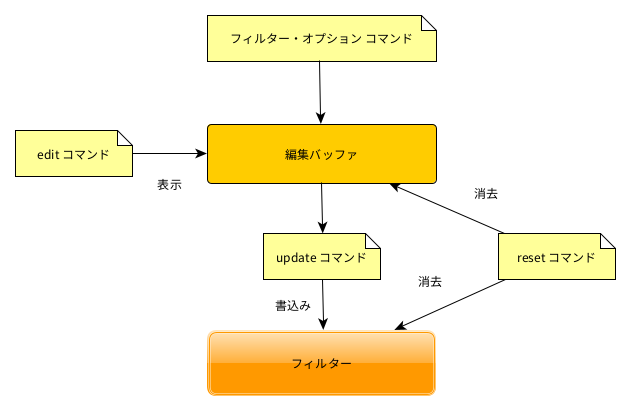
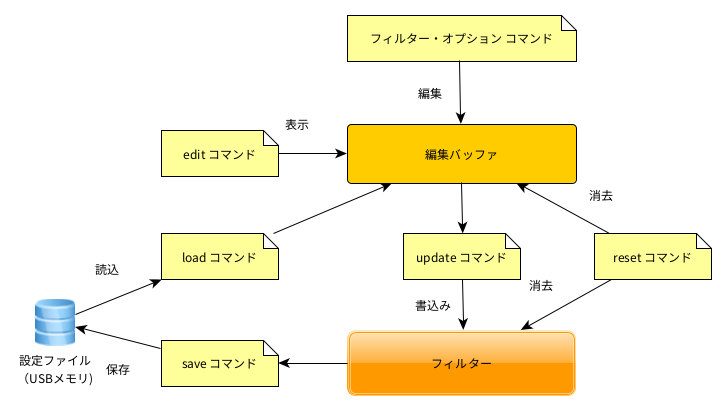
Added descriptions of save and load commands

diff --git a/docs/man/ja/command_list.rst b/docs/man/ja/command_list.rst
@@ -23,16 +23,18 @@
    =================  ==================================  ==============  ============
 
 .. table:: フィルター操作
-   :widths: 10, 60, 10
+   :widths: 10, 60, 12
 
-   ========================  ======================================================================================  ===========
-   コマンド                    機能                                                                                  引数
-   ========================  ======================================================================================  ===========
-   ``0`` / ``1`` / ``a``       設定対象のネットワークデバイス選択 ``0``:eth0 / ``1``:eth1 / ``a``:all(eth0 & eth1)    ---
-   ``edit``                    未反映のフィルター設定表示                                                             ---
-   ``update``                  フィルター設定適用                                                                     ---
-   ``reset``                   フィルター設定解除                                                                     ---
-   ========================  ======================================================================================  ===========
+   ======================  ====================================================================================  ==============
+   コマンド                機能                                                                                   引数
+   ======================  ====================================================================================  ==============
+   ``0`` / ``1`` / ``a``   設定するネットワークデバイスを選択 ``0``:eth0 / ``1``:eth1 / ``a``:all(eth0 & eth1)    ---
+   ``edit``                未反映のフィルター設定表示                                                             ---
+   ``update``              フィルター設定適用                                                                     ---
+   ``reset``               フィルター設定解除                                                                     ---
+   ``save``                現在のフィルター設定をUSBメモリに保存                                                  ファイル名
+   ``load``                フィルター設定ファイルをUSBメモリから読込む                                            ファイル名
+   ======================  ====================================================================================  ==============
 
 .. table:: フィルター設定
    :widths: 10, 20, 40

diff --git a/docs/man/ja/appendix.rst b/docs/man/ja/appendix.rst
@@ -43,7 +43,7 @@ RTCの電池交換
    ==========   =================  ================================================
     Version      日付                  改定内容
    ==========   =================  ================================================
-    0.1          2023-06-01          初版作成
+    0.1          2024-06-01          初版作成
    ==========   =================  ================================================
 
 
@@ -60,7 +60,6 @@ RTCの電池交換
    住所                569-1123 大阪府高槻市芥川町2-14-7 ロイヤル高槻2F
    担当                宮村
    mail                info@bitset.jp
-   tel                 050-7119-2899
    Web                 https://bitset.jp
    サポート時間帯      平日: 09:00〜18:00 (土日祝日休み)
    =================   ========================================================

diff --git a/docs/man/ja/index.rst b/docs/man/ja/index.rst
@@ -9,7 +9,7 @@
 
 
 .. toctree::
-   :maxdepth: 2
+   :maxdepth: 3
    :caption: 目次:
    :numbered:
 
